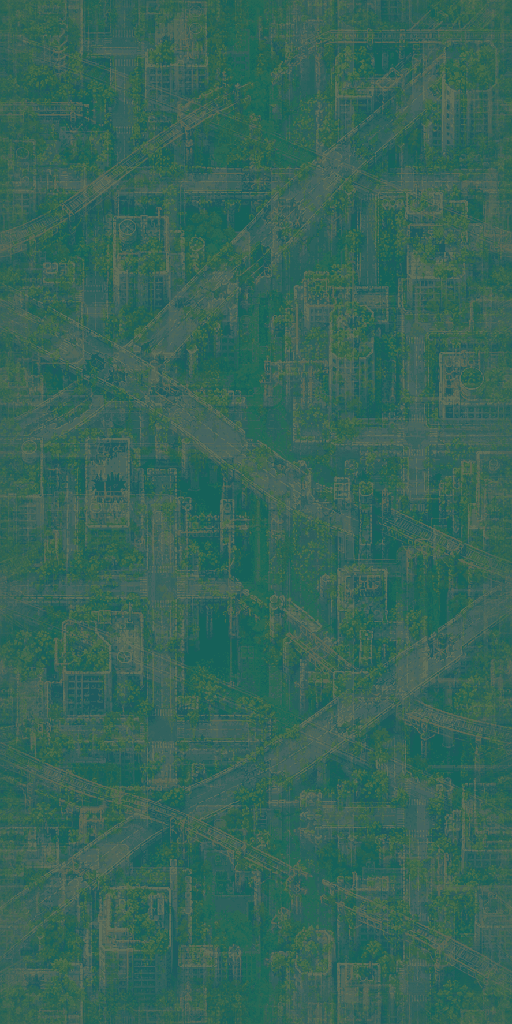
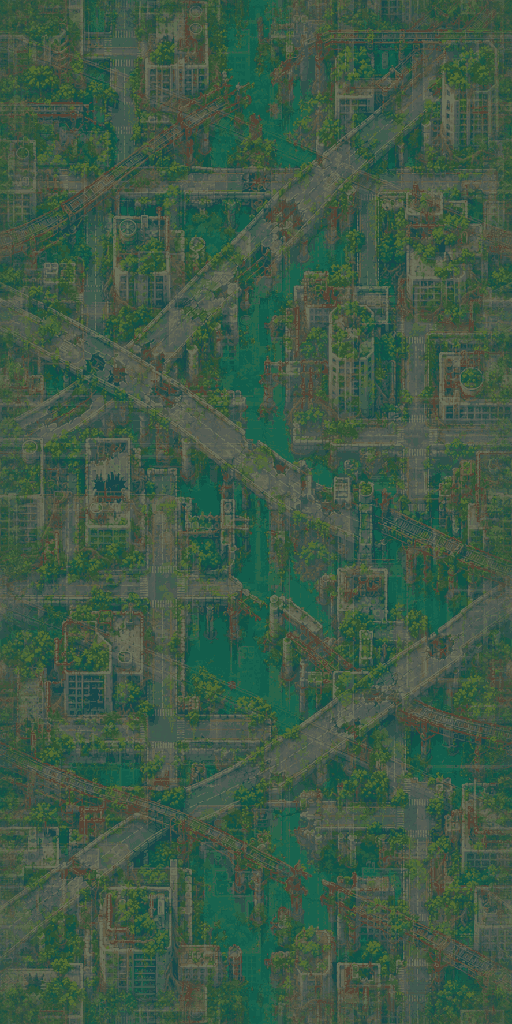
Verdant v3 ruined city: Codex repaint, greener vegetation, clearer roads and buildings, muddy brown roots

Changed region(s): [[0.0, 0.0, 1.0, 1.0]]

diff --git a/Pause/Assets/Art/Worlds/Verdant/backdrop_v3/src~/build_city_v3.py b/Pause/Assets/Art/Worlds/Verdant/backdrop_v3/src~/build_city_v3.py
@@ -1,0 +1,45 @@
+"""Rebuild Verdant v3 (ruined city) sky/far/mid from the Codex repaints in city_v3/ (flow.png is kept).
+Greener vegetation, clearer roads and buildings: little haze (sky only), higher mid/far contrast, saturation kept.
+Run: /usr/local/bin/python3 build_city_v3.py"""
+from pathlib import Path
+import sys
+import numpy as np
+from PIL import Image
+sys.path.insert(0, str(Path(__file__).resolve().parent))
+import build as B
+W, H = B.W, B.H
+HERE = Path(__file__).resolve().parent
+OUT = Path(__file__).resolve().parents[5] / "Art/Backgrounds/Resources/Worlds/Verdant/Backdrop3/v3"
+TARGET = {"sky": .40, "far": .45, "mid": .44}   # old: .415 / .445 / .475 (drawn x .8 by VariantBrightness)
+SAT = {"sky": 1.0, "far": 1.3, "mid": 1.25}
+CONTRAST = {"sky": .30, "far": .62, "mid": .80}
+HAZE = {"sky": .26, "far": .06, "mid": 0.0}
+FOG = (.12, .30, .28)
+
+
+def src(n):
+    return np.asarray(Image.open(HERE / "city_v3" / n).convert("RGB").resize((W, H), Image.Resampling.NEAREST)).copy()
+
+
+def ground(role):
+    a, b = src("city_a2.png"), src("city_b2.png")
+    w = {"sky": .32, "far": .72, "mid": .16}[role]
+    f = (a.astype(np.float32) * (1 - w) + b.astype(np.float32) * w) / 255
+    g = f.mean(axis=2, keepdims=True)
+    f = g + (f - g) * SAT[role]
+    f = f * (1 - HAZE[role]) + np.array(FOG, np.float32) * HAZE[role]
+    rgb = np.uint8(np.clip(np.rint(f * 255), 0, 255))
+    t, cap = TARGET[role], .66
+    rgb = B.palette_and_value(rgb, t, CONTRAST[role], 0, cap, colors=42 if role == "sky" else 56)
+    rgba = B.wrap_blend(np.dstack((rgb, np.full((H, W), 255, np.uint8))))
+    rgb = B.palette_and_value(rgba[:, :, :3], t, 1.0, 0, cap, colors=56)
+    rgba = np.dstack((rgb, np.full((H, W), 255, np.uint8)))
+    rgba[:, -1] = rgba[:, 0]; rgba[-1] = rgba[0]
+    return Image.fromarray(rgba, "RGBA")
+
+
+if __name__ == "__main__":
+    for role in ("sky", "far", "mid"):
+        im = ground(role)
+        im.save(OUT / f"{role}.png", optimize=True)
+        print(role, im.size, B.stats(im))

diff --git a/Pause/Assets/Scripts/Worlds/Backdrop/DockGradeTable.cs b/Pause/Assets/Scripts/Worlds/Backdrop/DockGradeTable.cs
@@ -494,11 +494,11 @@ public static partial class DockGrade
         1.000f, 1.000f, 1.000f,
         1.000f, 1.000f, 1.000f,
         0.811f, 0.963f, 0.905f,
-        1.000f, 1.000f, 1.000f,
-        1.000f, 1.000f, 1.000f,
-        1.000f, 1.000f, 1.000f,
-        1.000f, 1.000f, 1.000f,
-        1.000f, 1.000f, 1.000f,
+        0.728f, 0.587f, 0.483f,
+        0.728f, 0.587f, 0.483f,
+        0.728f, 0.587f, 0.483f,
+        0.728f, 0.587f, 0.483f,
+        0.728f, 0.587f, 0.483f,
         1.000f, 0.669f, 0.628f,
         1.000f, 0.642f, 0.600f,
         0.448f, 0.476f, 0.414f,

diff --git a/Pause/Assets/Art/Worlds/Verdant/backdrop_v3/src~/city_v3/prompts/city_a.md b/Pause/Assets/Art/Worlds/Verdant/backdrop_v3/src~/city_v3/prompts/city_a.md
@@ -1,0 +1,9 @@
+Use your built-in image generation tool to REDRAW the attached reference image (v3_terrain_a.png: a top-down aerial view of an overgrown ruined city in a jungle: collapsed grid of buildings, cracked roads and rail viaducts, canals, rooftop vegetation; 887x1774 portrait) as a CLEARER version of the exact same place. The user loves this image; KEEP the composition, the layout of every road, building, canal and viaduct in exactly the same positions and silhouettes, the mood, the portrait framing, the top-down view and the terrain filling every edge.
+
+CHANGE ONLY TWO THINGS:
+1. VEGETATION on and around the buildings (trees, vines, moss, overgrowth on rooftops, walls and roads): make it richer, more saturated, clearly GREEN leaf colours, several shades (deep emerald, jade, healthy mid green, lime accents, some lighter highlights), not olive-grey and not muted.
+2. ROADS and BUILDINGS: make them clearer and more defined and LESS FADED: higher value contrast, crisp hard pixel edges, visible paving, block and masonry detail, rooftops with visible structure and windows, natural weathered stone and concrete colours (warm grey, sandstone, ochre, slate, with darker cracks and shadows), bright rim-light on sun-facing edges. Remove the haze, fog and grey wash that makes them look faded. Canals stay teal.
+Structures must NOT be tinted green: stone stays stone coloured.
+
+HARD RULES: hi-res pixel art with crisp square pixels, no outlines or borders, no text, no blur, no horizon, no ships, no space, no pink or magenta. Keep overall brightness moderate (no large bright flat areas). LAYER This becomes the play layer behind a shooter with brown and black bullets and orange enemies: keep the vegetation and stone here a little darker and less saturated than you would for a far layer, the most vivid detail belongs in the other layer.
+Output: copy the generated image to ./city_a.png in your current working directory and reply with one line.

diff --git a/Pause/Assets/Art/Worlds/Verdant/backdrop_v3/src~/city_v3/prompts/city_b.md b/Pause/Assets/Art/Worlds/Verdant/backdrop_v3/src~/city_v3/prompts/city_b.md
@@ -1,0 +1,9 @@
+Use your built-in image generation tool to REDRAW the attached reference image (v3_terrain_b.png: a top-down aerial view of an overgrown ruined city in a jungle: collapsed grid of buildings, cracked roads and rail viaducts, canals, rooftop vegetation; 887x1774 portrait) as a CLEARER version of the exact same place. The user loves this image; KEEP the composition, the layout of every road, building, canal and viaduct in exactly the same positions and silhouettes, the mood, the portrait framing, the top-down view and the terrain filling every edge.
+
+CHANGE ONLY TWO THINGS:
+1. VEGETATION on and around the buildings (trees, vines, moss, overgrowth on rooftops, walls and roads): make it richer, more saturated, clearly GREEN leaf colours, several shades (deep emerald, jade, healthy mid green, lime accents, some lighter highlights), not olive-grey and not muted.
+2. ROADS and BUILDINGS: make them clearer and more defined and LESS FADED: higher value contrast, crisp hard pixel edges, visible paving, block and masonry detail, rooftops with visible structure and windows, natural weathered stone and concrete colours (warm grey, sandstone, ochre, slate, with darker cracks and shadows), bright rim-light on sun-facing edges. Remove the haze, fog and grey wash that makes them look faded. Canals stay teal.
+Structures must NOT be tinted green: stone stays stone coloured.
+
+HARD RULES: hi-res pixel art with crisp square pixels, no outlines or borders, no text, no blur, no horizon, no ships, no space, no pink or magenta. Keep overall brightness moderate (no large bright flat areas). LAYER This becomes the far layer: this is where the sharpest, most vivid detail and greens live.
+Output: copy the generated image to ./city_b.png in your current working directory and reply with one line.

diff --git a/Pause/Assets/Art/Worlds/Verdant/backdrop_v3/src~/city_v3/prompts/common.md b/Pause/Assets/Art/Worlds/Verdant/backdrop_v3/src~/city_v3/prompts/common.md
@@ -1,0 +1,9 @@
+Use your built-in image generation tool to REDRAW the attached reference image (REF: a top-down aerial view of an overgrown ruined city in a jungle: collapsed grid of buildings, cracked roads and rail viaducts, canals, rooftop vegetation; 887x1774 portrait) as a CLEARER version of the exact same place. The user loves this image; KEEP the composition, the layout of every road, building, canal and viaduct in exactly the same positions and silhouettes, the mood, the portrait framing, the top-down view and the terrain filling every edge.
+
+CHANGE ONLY TWO THINGS:
+1. VEGETATION on and around the buildings (trees, vines, moss, overgrowth on rooftops, walls and roads): make it richer, more saturated, clearly GREEN leaf colours, several shades (deep emerald, jade, healthy mid green, lime accents, some lighter highlights), not olive-grey and not muted.
+2. ROADS and BUILDINGS: make them clearer and more defined and LESS FADED: higher value contrast, crisp hard pixel edges, visible paving, block and masonry detail, rooftops with visible structure and windows, natural weathered stone and concrete colours (warm grey, sandstone, ochre, slate, with darker cracks and shadows), bright rim-light on sun-facing edges. Remove the haze, fog and grey wash that makes them look faded. Canals stay teal.
+Structures must NOT be tinted green: stone stays stone coloured.
+
+HARD RULES: hi-res pixel art with crisp square pixels, no outlines or borders, no text, no blur, no horizon, no ships, no space, no pink or magenta. Keep overall brightness moderate (no large bright flat areas). LAYER ROLE_LINE
+Output: copy the generated image to ./OUTNAME in your current working directory and reply with one line.

diff --git a/Pause/Assets/Art/Worlds/Verdant/backdrop_v3/src~/city_v3/prompts/mud_a.md b/Pause/Assets/Art/Worlds/Verdant/backdrop_v3/src~/city_v3/prompts/mud_a.md
@@ -1,0 +1,5 @@
+Use your built-in image generation tool to REDRAW the attached reference image (city_a.png: a top-down aerial view of an overgrown ruined jungle city with clear roads and buildings and green vegetation) with MUDDIER BROWN ROOTS. KEEP everything else EXACTLY: composition, every road, building, canal and viaduct position and silhouette, the green vegetation, crisp hi-res pixel art, no outlines, no text, no blur, same portrait framing.
+
+ROOTS (new direction): wherever the image shows tree roots, root tangles, big gnarled roots, trunks and thick vines at the base of trees or climbing buildings, redraw them as earthy MUD-BROWN, wet soil-caked wood: warm umber and chestnut with darker wet-mud shadows, clay and silt browns, a damp sheen, mud splatter and silt lines where roots meet water, pale dried-mud highlights, visible grain and knots, moss only in small patches. Clearly brown, muddy and earthy: not green-tinted, not grey. Leaves and canopy stay green. Roads, buildings and stone stay exactly as clear and natural-stone-coloured as in the reference.
+LAYER ROLE: PLAY layer behind a shooter with brown bullets: keep the mud browns DARK and LOW-SATURATION here so brown projectiles stay visible.
+Output: copy the generated image to ./city_a2.png in your current working directory and reply with one line.

diff --git a/Pause/Assets/Art/Worlds/Verdant/backdrop_v3/src~/city_v3/prompts/mud_b.md b/Pause/Assets/Art/Worlds/Verdant/backdrop_v3/src~/city_v3/prompts/mud_b.md
@@ -1,0 +1,5 @@
+Use your built-in image generation tool to REDRAW the attached reference image (city_b.png: a top-down aerial view of an overgrown ruined jungle city with clear roads and buildings and green vegetation) with MUDDIER BROWN ROOTS. KEEP everything else EXACTLY: composition, every road, building, canal and viaduct position and silhouette, the green vegetation, crisp hi-res pixel art, no outlines, no text, no blur, same portrait framing.
+
+ROOTS (new direction): wherever the image shows tree roots, root tangles, big gnarled roots, trunks and thick vines at the base of trees or climbing buildings, redraw them as earthy MUD-BROWN, wet soil-caked wood: warm umber and chestnut with darker wet-mud shadows, clay and silt browns, a damp sheen, mud splatter and silt lines where roots meet water, pale dried-mud highlights, visible grain and knots, moss only in small patches. Clearly brown, muddy and earthy: not green-tinted, not grey. Leaves and canopy stay green. Roads, buildings and stone stay exactly as clear and natural-stone-coloured as in the reference.
+LAYER ROLE: FAR layer: the muddiest, most saturated earthy browns belong here.
+Output: copy the generated image to ./city_b2.png in your current working directory and reply with one line.
